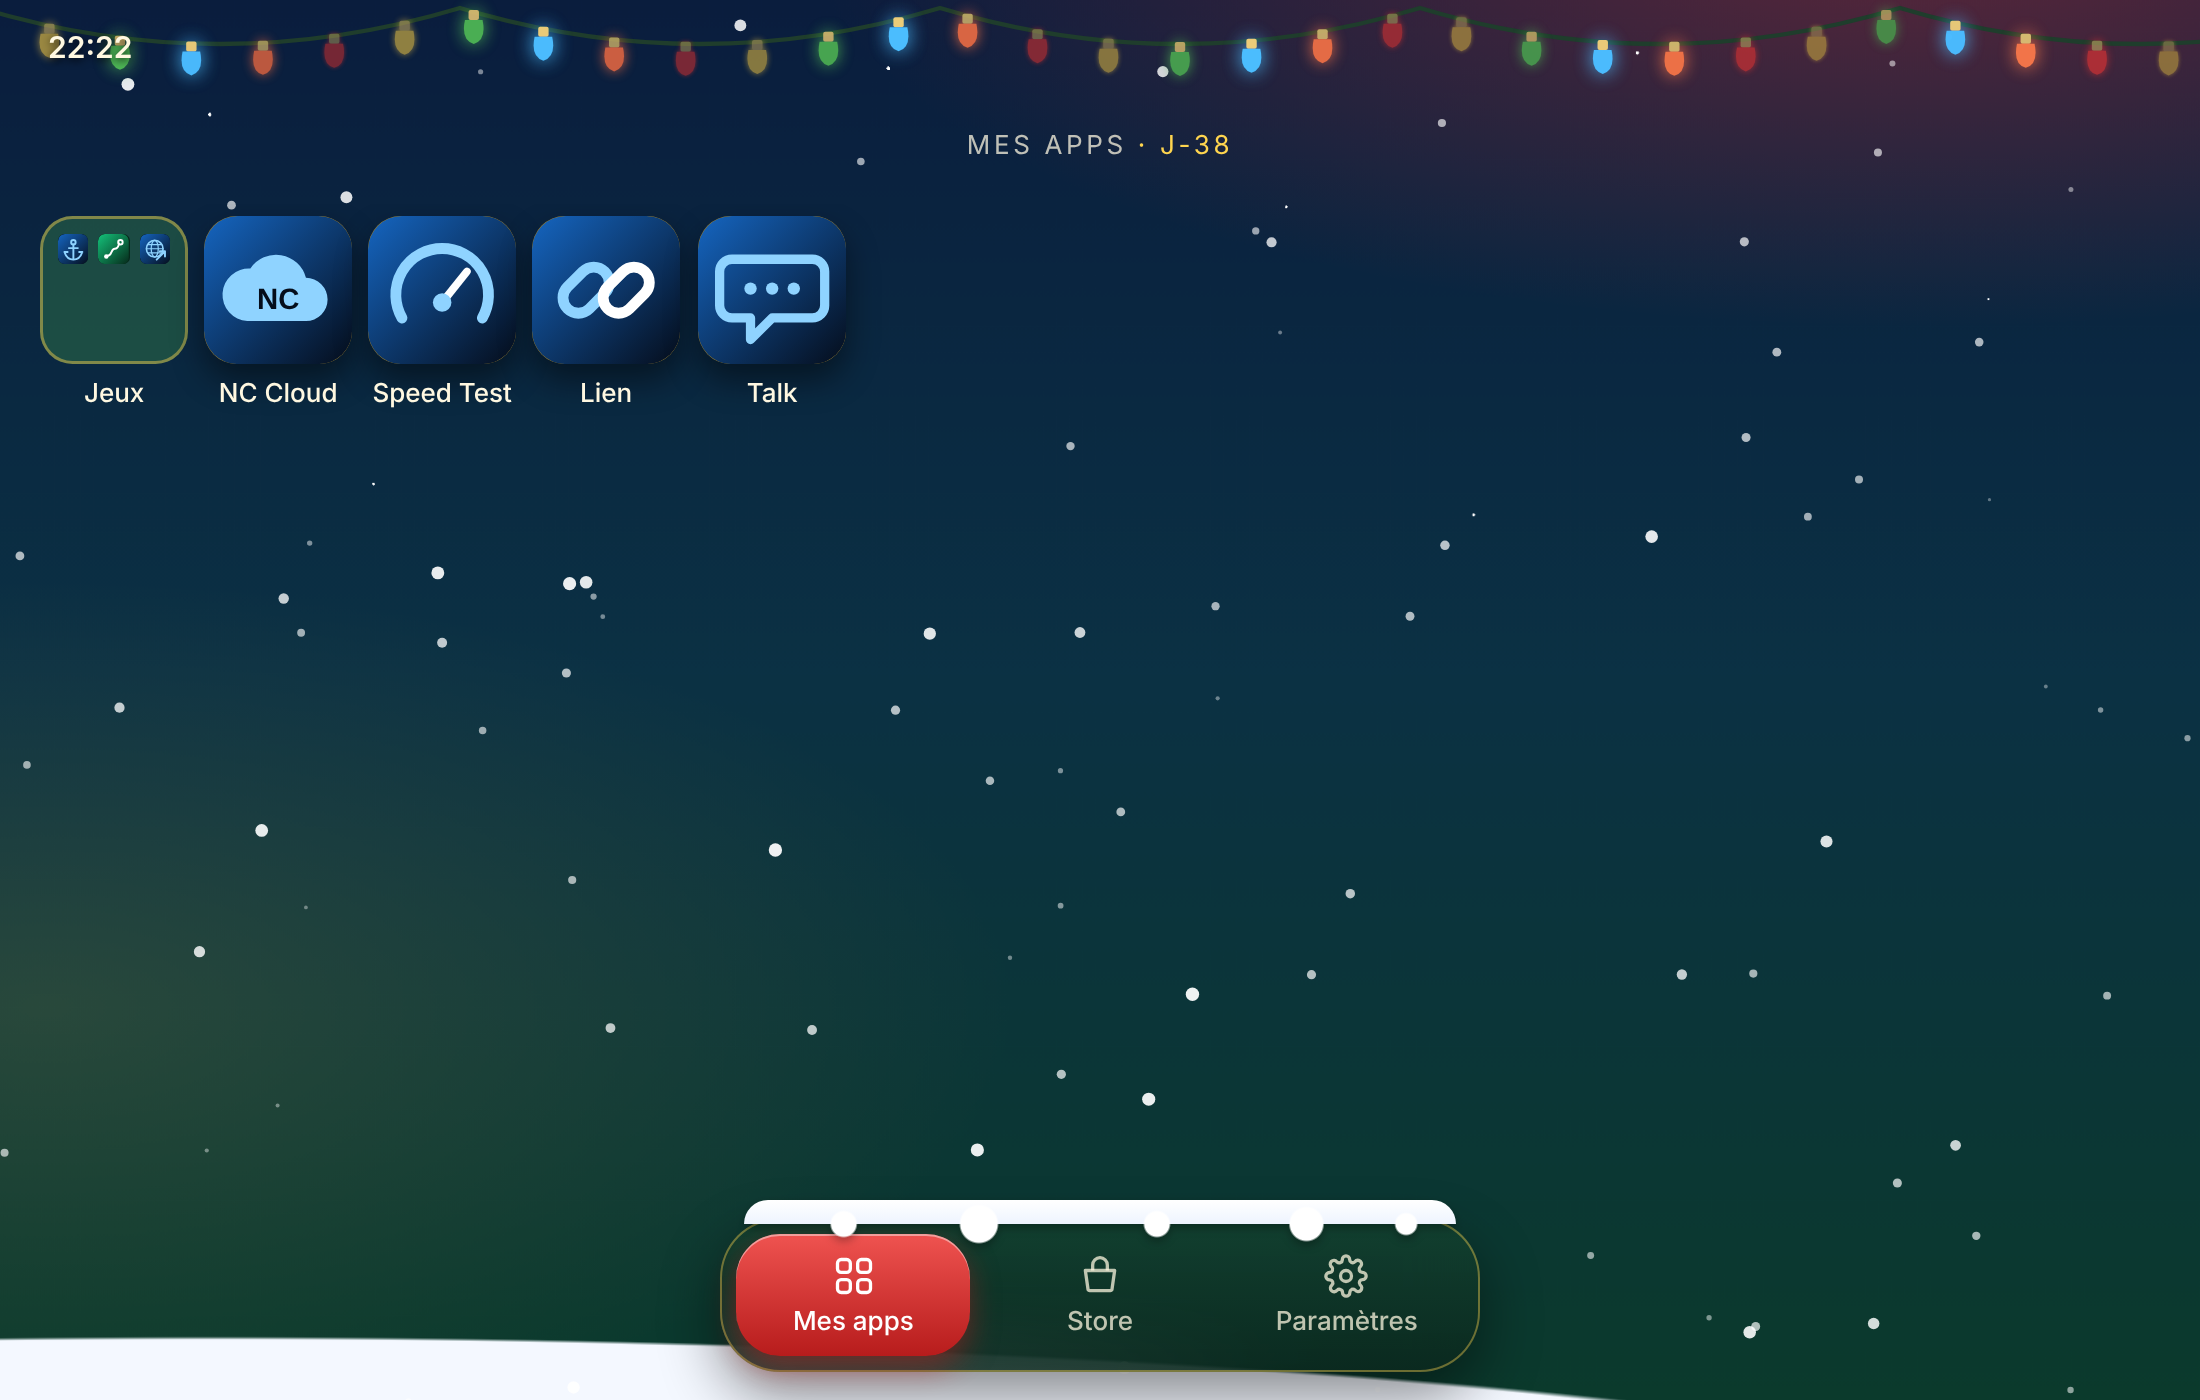
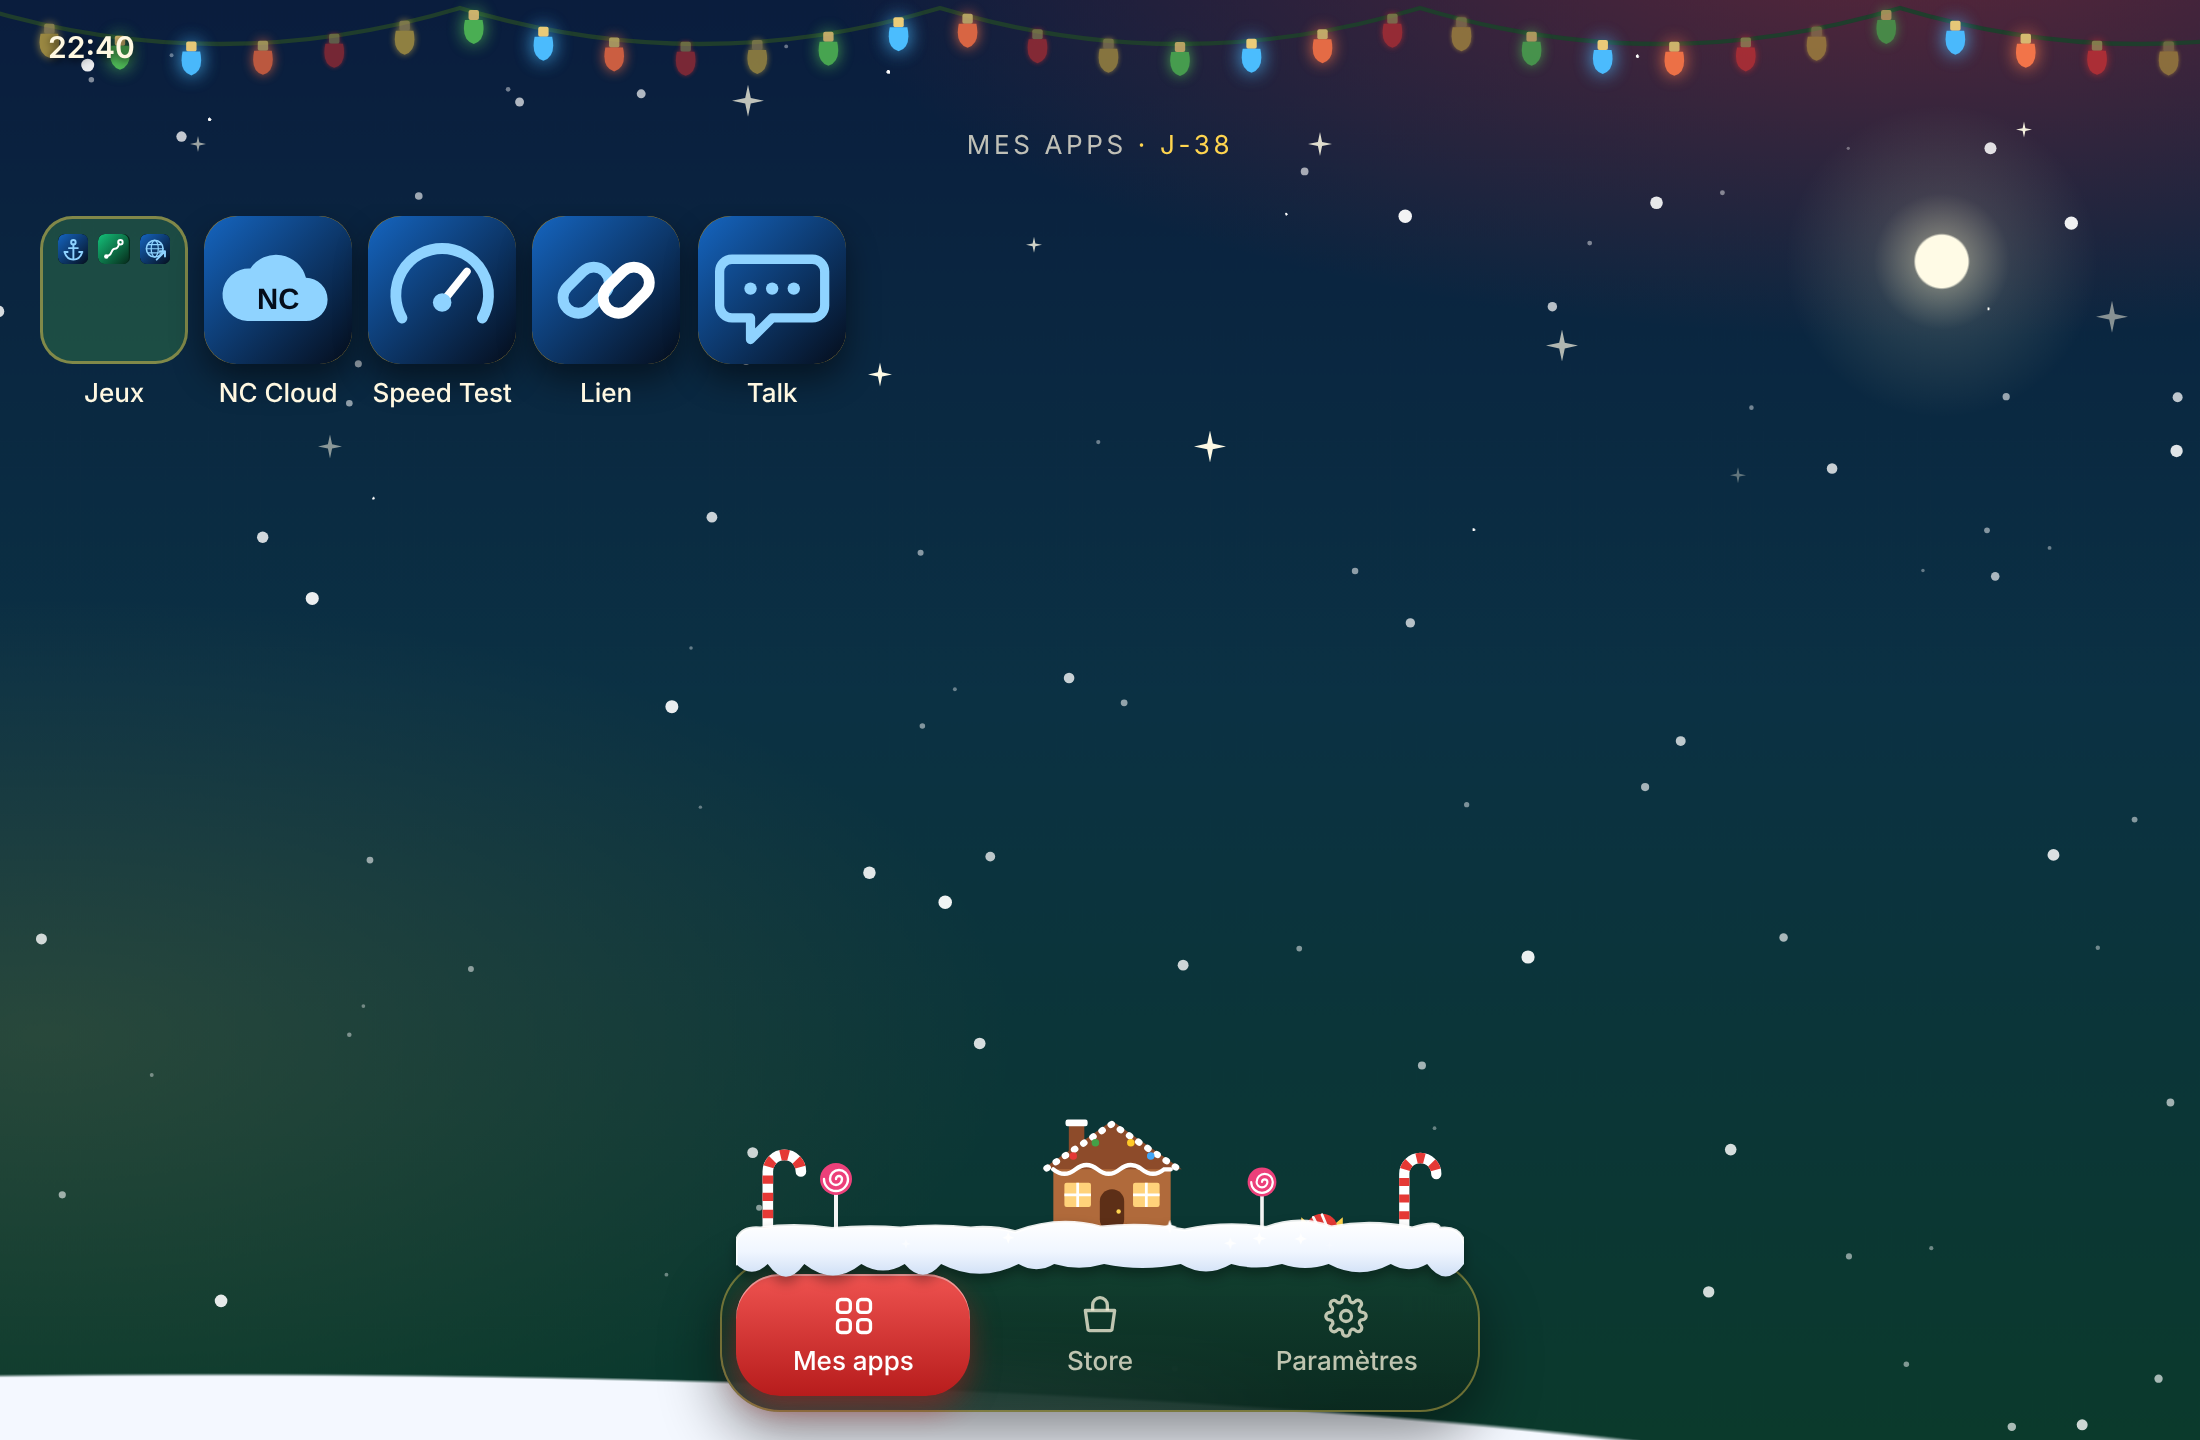
Thème Noël : décor de confiserie sur la neige de la barre, neige plus épaisse (bosses, gouttes, reflets)
Claude-Session: https://claude.ai/code/session_01N5bJjLrPDM2GGRv52ggxz3

diff --git a/accueil/index.html b/accueil/index.html
@@ -271,11 +271,6 @@ body.theme-noel .statut { text-shadow: 0 1px 4px rgba(0,0,0,.85); }
 body.theme-noel .icone { box-shadow: inset 0 0 0 1.5px rgba(255,213,79,.55), 0 8px 16px rgba(0,0,0,.45); }
 body.theme-noel .grille-dossier { background: rgba(76,175,80,.28); box-shadow: inset 0 0 0 1.5px rgba(255,213,79,.45); }
 body.theme-noel .barre { box-shadow: inset 0 0 0 1px rgba(255,213,79,.4), 0 12px 30px rgba(0,0,0,.45); background: linear-gradient(180deg, rgba(20,66,48,.78), rgba(10,38,28,.82)); }
-body.theme-noel .barre::after {
-  content: ""; position: absolute; left: 12px; right: 12px; top: -9px; height: 24px; pointer-events: none; border-radius: 12px 12px 6px 6px;
-  background: radial-gradient(circle at 14% 12px, #fff 6px, transparent 7px), radial-gradient(circle at 33% 12px, #fff 9px, transparent 10px), radial-gradient(circle at 58% 12px, #fff 6px, transparent 7px), radial-gradient(circle at 79% 12px, #fff 8px, transparent 9px), radial-gradient(circle at 93% 12px, #fff 5px, transparent 6px), linear-gradient(#fff, #eef4ff) top / 100% 12px no-repeat;
-  filter: drop-shadow(0 2px 2px rgba(0,0,0,.3));
-}
 body.theme-noel .onglet-bulle { background: linear-gradient(180deg, #ef5350, #b71c1c); box-shadow: inset 0 1px 0 rgba(255,255,255,.45), 0 6px 14px rgba(183,28,28,.5); }
 body.theme-noel .onglet[aria-selected="true"] { color: #fff; }
 body.theme-noel .feuille, body.theme-noel .dossier, body.theme-noel .menu-ctx { box-shadow: inset 0 0 0 1px rgba(255,213,79,.32), 0 20px 50px rgba(0,0,0,.5); }
@@ -296,6 +291,13 @@ body.theme-noel .traineau { display: block; position: fixed; left: 0; top: 0; wi
 @keyframes galop { from { transform: rotate(-26deg); } to { transform: rotate(26deg); } }
 @keyframes bondit { from { transform: translateY(0); } to { transform: translateY(-3.5px); } }
 .traineau .nez { filter: drop-shadow(0 0 5px #ff3b3b) drop-shadow(0 0 10px #ff3b3b); }
+.neige-barre { display: none; }
+body.theme-noel .neige-barre { display: block; position: absolute; left: 8px; right: 8px; top: -25px; width: calc(100% - 16px); height: 46px; pointer-events: none; z-index: 3; filter: drop-shadow(0 3px 3px rgba(0,0,0,.35)); }
+.neige-barre .etincelle { fill: #fff; animation: scintille-neige 2.4s ease-in-out infinite; transform-box: fill-box; transform-origin: center; }
+@keyframes scintille-neige { 0%, 100% { opacity: .15; transform: scale(.6); } 50% { opacity: 1; transform: scale(1.15); } }
+@media (prefers-reduced-motion: reduce) { .neige-barre .etincelle { animation: none; opacity: .7; } }
+.decor-barre { display: none; }
+body.theme-noel .decor-barre { display: block; position: absolute; left: 12px; right: 12px; bottom: calc(100% + 8px); width: calc(100% - 24px); height: auto; overflow: visible; pointer-events: none; z-index: 2; }
 .neige { display: none; }
 body.theme-noel .neige { display: block; position: fixed; inset: 0; width: 100%; height: 100%; z-index: 0; pointer-events: none; }
 .guirlande { display: none; }
@@ -378,6 +380,27 @@ body.edition .app:nth-child(2n) .icone { animation-direction: alternate-reverse;
       </g>
       <path d="M240 74 H278 M300 74 H338" stroke="#ffd54f" stroke-width="1.4" fill="none"/>
     </svg></div>
+  <svg width="0" height="0" style="position:absolute" aria-hidden="true"><defs><linearGradient id="gneige" x1="0" y1="0" x2="0" y2="1"><stop offset="0" stop-color="#ffffff"/><stop offset=".55" stop-color="#f0f6ff"/><stop offset="1" stop-color="#cfdff5"/></linearGradient>
+ <symbol id="cane" viewBox="-6 -4 44 84"><path d="M8 78V24a14 14 0 0 1 28 0" transform="translate(-4 0)" fill="none" stroke="#fff" stroke-width="9" stroke-linecap="round"/><path d="M8 78V24a14 14 0 0 1 28 0" transform="translate(-4 0)" fill="none" stroke="#e53935" stroke-width="9" stroke-dasharray="7 7.5" stroke-linecap="butt"/></symbol>
+ <symbol id="maison" viewBox="0 0 130 112">
+  <rect x="26" y="8" width="14" height="26" fill="#8d4b2a"/><rect x="23" y="5" width="20" height="6" rx="2" fill="#fff"/>
+  <rect x="12" y="44" width="106" height="62" rx="3" fill="#b06a3b"/>
+  <polygon points="2,50 65,6 128,50" fill="#8d4b2a"/>
+  <path d="M6 49 L65 9 L124 49" fill="none" stroke="#fff" stroke-width="6" stroke-linecap="round" stroke-dasharray="1 9"/>
+  <path d="M12 50 Q22 58 32 50 T52 50 T72 50 T92 50 T112 50 L118 50" fill="none" stroke="#fff" stroke-width="4" stroke-linecap="round"/>
+  <rect x="54" y="68" width="22" height="38" rx="11" fill="#5d2f17"/><circle cx="71" cy="88" r="2" fill="#ffd54f"/>
+  <rect x="22" y="62" width="24" height="22" rx="2" fill="#ffd27a"/><path d="M34 62v22M22 73h24" stroke="#fff" stroke-width="2.5"/>
+  <rect x="84" y="62" width="24" height="22" rx="2" fill="#ffd27a"/><path d="M96 62v22M84 73h24" stroke="#fff" stroke-width="2.5"/>
+  <circle cx="30" cy="38" r="3.4" fill="#e53935"/><circle cx="50" cy="26" r="3.4" fill="#43a047"/><circle cx="82" cy="26" r="3.4" fill="#ffca28"/><circle cx="100" cy="38" r="3.4" fill="#42a5f5"/>
+  <path d="M8 106H122" stroke="#fff" stroke-width="4" stroke-linecap="round"/>
+ </symbol>
+ <symbol id="sapin" viewBox="0 0 50 70"><rect x="22" y="58" width="6" height="10" fill="#6d4c41"/><polygon points="25,4 44,30 6,30" fill="#2e7d32"/><polygon points="25,16 47,46 3,46" fill="#388e3c"/><polygon points="25,28 49,60 1,60" fill="#43a047"/><circle cx="25" cy="14" r="3" fill="#ffd54f"/><circle cx="18" cy="36" r="2.6" fill="#e53935"/><circle cx="32" cy="42" r="2.6" fill="#42a5f5"/><circle cx="14" cy="52" r="2.6" fill="#ffd54f"/><circle cx="35" cy="54" r="2.6" fill="#e53935"/><path d="M8 29h34M5 45h40M3 59h44" stroke="#fff" stroke-width="2.4" stroke-linecap="round" opacity=".85"/></symbol>
+ <symbol id="sucette" viewBox="0 0 40 80"><rect x="18" y="30" width="4" height="48" rx="2" fill="#f5f5f5"/><circle cx="20" cy="20" r="16" fill="#ec407a"/><path d="M20 20m0 0a3 3 0 0 1 6 0a6 6 0 0 1 -12 0a9 9 0 0 1 18 0a12 12 0 0 1 -24 0" fill="none" stroke="#fff" stroke-width="2.4" stroke-linecap="round"/></symbol>
+ <symbol id="bonhomme" viewBox="0 0 40 52"><path d="M20 4a8 8 0 1 1 0 16 8 8 0 0 1 0-16zM12 22h16l10-6 3 5-11 9v8l7 10-5 4-8-9-8 9-5-4 7-10v-8L-1 21l3-5z" transform="translate(0 0)" fill="#a8683a"/><circle cx="17" cy="11" r="1.5" fill="#fff"/><circle cx="23" cy="11" r="1.5" fill="#fff"/><path d="M16 15q4 3 8 0" stroke="#fff" stroke-width="1.5" fill="none" stroke-linecap="round"/><circle cx="20" cy="26" r="2" fill="#e53935"/><circle cx="20" cy="33" r="2" fill="#e53935"/></symbol>
+ <symbol id="bonbon" viewBox="0 0 60 36"><path d="M6 8L18 18 6 28z M54 8L42 18 54 28z" fill="#ffd54f"/><ellipse cx="30" cy="18" rx="17" ry="14" fill="#e53935"/><path d="M20 8l10 20M30 5l10 24M14 14l8 16" stroke="#fff" stroke-width="3.2" stroke-linecap="round"/></symbol>
+ <symbol id="barriere" viewBox="0 0 100 34"><path d="M0 22H100" stroke="#fff" stroke-width="4"/><path d="M0 22H100" stroke="#e53935" stroke-width="4" stroke-dasharray="6 6"/><g stroke-width="5" stroke-linecap="round"><path d="M10 32V8M36 32V8M62 32V8M88 32V8" stroke="#fff"/><path d="M10 32V8M36 32V8M62 32V8M88 32V8" stroke="#e53935" stroke-dasharray="5 5"/></g></symbol>
+ <symbol id="colline" viewBox="0 0 390 120"><path d="M0 52Q70 24 150 44T300 34T390 46V120H0Z" fill="#dbe8f8"/><path d="M0 74Q90 46 190 66T390 60V120H0Z" fill="#f4f8ff"/></symbol>
+</defs></svg>
   <canvas class="neige" id="neige" aria-hidden="true"></canvas>
   <svg class="guirlande" id="guirlande" aria-hidden="true"></svg>
   <div class="demarrage" id="demarrage" aria-hidden="true">
@@ -468,6 +491,8 @@ body.edition .app:nth-child(2n) .icone { animation-direction: alternate-reverse;
   </div>
 
   <nav class="barre" aria-label="Navigation">
+    <svg class="decor-barre" viewBox="0 0 356 70" aria-hidden="true"><g id="decor-barre-scene"></g></svg>
+    <svg class="neige-barre" viewBox="0 0 356 46" preserveAspectRatio="none" aria-hidden="true"><g id="neige-barre"></g></svg>
     <span class="onglet-bulle" id="onglet-bulle" aria-hidden="true"></span>
     <button class="onglet" id="onglet-apps" role="tab" aria-selected="true" type="button">
       <svg viewBox="0 0 24 24" fill="none" stroke="currentColor" stroke-width="1.8" aria-hidden="true"><rect x="3" y="3" width="7" height="7" rx="2"/><rect x="14" y="3" width="7" height="7" rx="2"/><rect x="3" y="14" width="7" height="7" rx="2"/><rect x="14" y="14" width="7" height="7" rx="2"/></svg>
@@ -1453,9 +1478,42 @@ body.edition .app:nth-child(2n) .icone { animation-direction: alternate-reverse;
     traineauAnim = traineauEl.animate(etapes, { duration: dur, easing: 'linear', fill: 'forwards' });
     traineauAnim.onfinish = function () { traineauAnim = null; traineauEl.style.opacity = '0'; planifierTraineau(); };
   }
+
+  // Décor posé sur la neige qui recouvre la barre du bas : maison en pain d'épice, sucres d'orge, bonbons.
+  function u(id, x, y, w, h) { return '<use href="#' + id + '" x="' + x + '" y="' + y + '" width="' + w + '" height="' + h + '"/>'; }
+  var DECOR = u('cane', 6, 18, 26, 50) + u('sucette', 36, 28, 20, 41) + u('maison', 148, 6, 72, 62) + u('sucette', 250, 30, 18, 38) + u('bonbon', 276, 54, 26, 16) + u('cane', 324, 20, 26, 48);
+  // Neige épaisse sur la barre : dessus en bosses irrégulières, dessous en gouttes arrondies, reflets qui scintillent.
+  function graine(n) { var x = n; return function () { x = (x * 16807) % 2147483647; return x / 2147483647; }; }
+  function neigeBarre() {
+    var w = 356, r = graine(20261225), x = 12, d = 'M0 28 V17 Q2 9 12 10';
+    while (x < w - 12) {
+      var l = 20 + r() * 26, x2 = Math.min(w - 12, x + l);
+      d += ' Q' + (x + l / 2).toFixed(1) + ' ' + (1 + r() * 9).toFixed(1) + ' ' + x2.toFixed(1) + ' ' + (9 + r() * 3).toFixed(1);
+      x = x2;
+    }
+    d += ' Q' + (w - 2) + ' 9 ' + w + ' 17 V28';
+    x = w;
+    while (x > 0) {
+      var l2 = 14 + r() * 24, x3 = Math.max(0, x - l2), g = 2 + r() * 5.5;
+      d += ' Q' + ((x + x3) / 2).toFixed(1) + ' ' + (28 + g * 1.7).toFixed(1) + ' ' + x3.toFixed(1) + ' 28';
+      x = x3;
+    }
+    d += 'Z';
+    var etincelles = '';
+    for (var i = 0; i < 7; i++) {
+      var ex = 18 + r() * (w - 36), ey = 8 + r() * 12, t = 1.2 + r() * 2.4;
+      etincelles += '<path class="etincelle" d="M' + ex.toFixed(1) + ' ' + (ey - 3).toFixed(1) + ' L' + (ex + .8).toFixed(1) + ' ' + (ey - .8).toFixed(1) + ' L' + (ex + 3).toFixed(1) + ' ' + ey.toFixed(1) + ' L' + (ex + .8).toFixed(1) + ' ' + (ey + .8).toFixed(1) + ' L' + ex.toFixed(1) + ' ' + (ey + 3).toFixed(1) + ' L' + (ex - .8).toFixed(1) + ' ' + (ey + .8).toFixed(1) + ' L' + (ex - 3).toFixed(1) + ' ' + ey.toFixed(1) + ' L' + (ex - .8).toFixed(1) + ' ' + (ey - .8).toFixed(1) + 'Z" style="animation-delay:' + (i * .6).toFixed(1) + 's;animation-duration:' + t.toFixed(1) + 's"/>';
+    }
+    document.getElementById('neige-barre').innerHTML = '<path d="' + d + '" fill="url(#gneige)"/><path d="' + d.split(' V28 Q')[0] + '" fill="none" stroke="#fff" stroke-width="1.6" stroke-linecap="round" opacity=".9"/>' + etincelles;
+  }
+  function dessinerDecor() {
+    document.getElementById('decor-barre-scene').innerHTML = DECOR;
+    neigeBarre();
+  }
   function majNoel() {
     if (!neigeCtx) return;
     if (enNoel()) {
+      dessinerDecor();
       document.body.style.setProperty('--noel-j', '"' + joursAvantNoel() + '"');
       tailleNeige(); creerFlocons(); construireGuirlande();
       if (!traineauTimer) planifierTraineau(5000);
